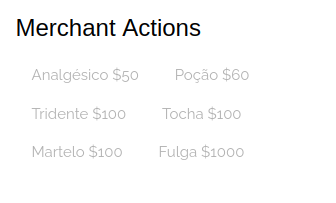
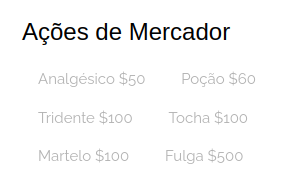
melhorando visualização das ações

diff --git a/rpgBr.html b/rpgBr.html
@@ -110,7 +110,7 @@
             <button onclick="battleAction(event, this.id)" id="potion" class="w3-button w3-white">Poção</button>
           </div>
           <div id="merchant_actions">
-            <h3>Merchant Actions</h3>
+            <h3>Ações de Mercador</h3>
             <button disabled onclick="buyAction(event, this.id, 50)" id="buyPainKiller" class="w3-button w3-white merchantAction">Analgésico $50</button>
             <button disabled onclick="buyAction(event, this.id, 60)" id="buyPotion" class="w3-button w3-white merchantAction">Poção $60</button>
             <button disabled onclick="buyAction(event, this.id, 100)" id="buyTrident" class="w3-button w3-white merchantAction">Tridente $100</button>
@@ -197,6 +197,17 @@
       </div>
     </div>
 
+    <!-- Resultado da Ação Modal -->
+    <div id="actionResultModal" class="w3-modal">
+      <div class="w3-modal-content">
+        <div class="w3-container">
+          <span onclick="document.getElementById('actionResultModal').style.display='none'" class="w3-button w3-display-topright">&times;</span>
+          <h1>Resultado da Ação</h1>
+          <p id="actionResultText"></p>
+        </div>
+      </div>
+    </div>
+
     <script>
       let position = [2,3];
       let battle = false;
@@ -209,6 +220,22 @@
       let hammer = false;
       let trident = false;
       let locationStatus = 'land';
+
+      // helper for showing action result modal
+      function showActionResult(text) {
+        const modal = document.getElementById('actionResultModal');
+        const textElem = document.getElementById('actionResultText');
+        textElem.innerHTML = text;
+        modal.style.display = 'block';
+        setTimeout(() => { modal.style.display = 'none'; }, 3000);
+      }
+
+      // centralized description update
+      function addDescription(text) {
+        document.getElementById('description').innerHTML += text;
+        showActionResult(text);
+        scrolDown();
+      }
 
       document.getElementById('initialAction').style.display='block';
       document.getElementById('prologue').style.display='block';
@@ -244,8 +271,7 @@
         }
 
         if (battle == true) {
-          document.getElementById('description').innerHTML += '<br> Não é possível andar durante a batalha.';
-          scrolDown();
+          addDescription('<br> Não é possível andar durante a batalha.');
           return;
         }
 
@@ -378,19 +404,19 @@
         // id da parte com imagem land_monster_image
         if (land.includes(position)) {
           locationStatus = 'land';
-          document.getElementById('description').innerHTML += '<br> Você está em uma planície.';
+          addDescription('<br> Você está em uma planície.');
           alterImage(locationStatus, 2);
         } else if (island.includes(position)) {
           locationStatus = 'island';
-          document.getElementById('description').innerHTML += '<br> Você está no litoral.';
+          addDescription('<br> Você está no litoral.');
           alterImage(locationStatus, 2);
         } else if (montain.includes(position)) {
           locationStatus = 'montain';
-          document.getElementById('description').innerHTML += '<br> Você está na montanha.';
+          addDescription('<br> Você está na montanha.');
           alterImage(locationStatus, 7);
         } else if (forest.includes(position)) {
           locationStatus = 'forest';
-          document.getElementById('description').innerHTML += '<br> Você está na floresta.';
+          addDescription('<br> Você está na floresta.');
           alterImage(locationStatus, 2);
         }
 
@@ -400,7 +426,7 @@
           battle = true;
           foundMonster = { ...monster };
           turn = 'player';
-          document.getElementById('description').innerHTML += '<br> Um monstro atacou. Tome uma ação de batalha.';
+          addDescription('<br> Um monstro atacou. Tome uma ação de batalha.');
           alterImage(locationStatus, 1, ocurrency);
         } else if (ocurrency == 'merchant') {
           buy = true;
@@ -409,7 +435,7 @@
           for (let i = 0; i < elementos.length; i++) {
             elementos[i].removeAttribute('disabled');
           }
-          document.getElementById('description').innerHTML += '<br> Você encontrou um mercador. Compre algo ou vá embora.';
+          addDescription('<br> Você encontrou um mercador. Compre algo ou vá embora.');
           alterImage(locationStatus, 1, ocurrency);
         }
         //Verifica a localização, se terá um monstro ou outro personagem (curandeiro)
@@ -432,14 +458,12 @@
 
       function buyAction(event, action, price) {
         if (!buy) {
-          document.getElementById('description').innerHTML += '<br> Não há um mercador presente.';
-          scrolDown();
+          addDescription('<br> Não há um mercador presente.');
           return;
         }
 
         if (coinNumber < price) { 
-          document.getElementById('description').innerHTML += '<br> Não tem dinheiro o suficiente, estranho.';
-          scrolDown();
+          addDescription('<br> Não tem dinheiro o suficiente, estranho.');
           return;
         }
 
@@ -476,8 +500,7 @@
 
       function battleAction(event, action) {
         if (!battle) {
-          document.getElementById('description').innerHTML += '<br> Você não está em batalha.';
-          scrolDown();
+          addDescription('<br> Você não está em batalha.');
           return;
         }
 
@@ -490,39 +513,39 @@
                 }
                 potionNumber --;
                 document.getElementById('potionStatus').innerHTML = potionNumber;
-                document.getElementById('description').innerHTML += '<br> hp player:' + player.hp;
+                addDescription('<br> hp player:' + player.hp);
               } else {
-                document.getElementById('description').innerHTML += '<br> Você não tem poção.';
+                addDescription('<br> Você não tem poção.');
               }
               break;
           case 'run':
             let running = Math.floor(Math.random() * (100 - 1 + 1)) + 1;
             running = running + 75;
-            document.getElementById('description').innerHTML += '<br> Teste de corrida .'+running;
+            addDescription('<br> Teste de corrida .'+running);
             if (running > monster.hp) {
               battle = false;
               walk(null, runDespair());
               return;
             } else {
-              document.getElementById('description').innerHTML += '<br> O monstro te alcançou.';
+              addDescription('<br> O monstro te alcançou.');
             }
             break;
           default:
             let bonus = verifySpaceAndWeapon(action, locationStatus);
 
             if(bonus > 0) {
-              document.getElementById('description').innerHTML += '<br> Bônus de arma!!!';
+              addDescription('<br> Bônus de arma!!!');
             }
 
             let atack = atackTest(player.atack, foundMonster.defense, bonus);
             foundMonster.hp = foundMonster.hp - atack;
-            document.getElementById('description').innerHTML += '<br> ataque do player:'+atack;
-            document.getElementById('description').innerHTML += '<br> hp do monstro:'+foundMonster.hp;
+            addDescription('<br> ataque do player:'+atack);
+            addDescription('<br> hp do monstro:'+foundMonster.hp);
             turn = 'monster';
 
             if (foundMonster.hp <= 0) {
               battle = false;
-              document.getElementById('description').innerHTML += '<br> PLAYER VENCEU';
+              addDescription('<br> PLAYER VENCEU');
               scrolDown();
               coinNumber = coinNumber + 50;
               document.getElementById('coin').innerHTML = coinNumber;
@@ -533,14 +556,14 @@
 
         let atackMonster = atackTest(foundMonster.atack, player.defense, 0);
         player.hp = player.hp - atackMonster;
-        document.getElementById('description').innerHTML += '<br> ataque do monstro:' + atackMonster;
-        document.getElementById('description').innerHTML += '<br> hp do player:' + player.hp;
+        addDescription('<br> ataque do monstro:' + atackMonster);
+        addDescription('<br> hp do player:' + player.hp);
         turn = 'player';
         document.getElementById('life').innerHTML = player.hp;
 
         if (player.hp <= 0) {
           battle = false;
-          document.getElementById('description').innerHTML += '<br> GAME OVER, você perdeu metade do dinheiro';
+          addDescription('<br> GAME OVER, você perdeu metade do dinheiro');
           scrolDown();
           location.reload();
         }
